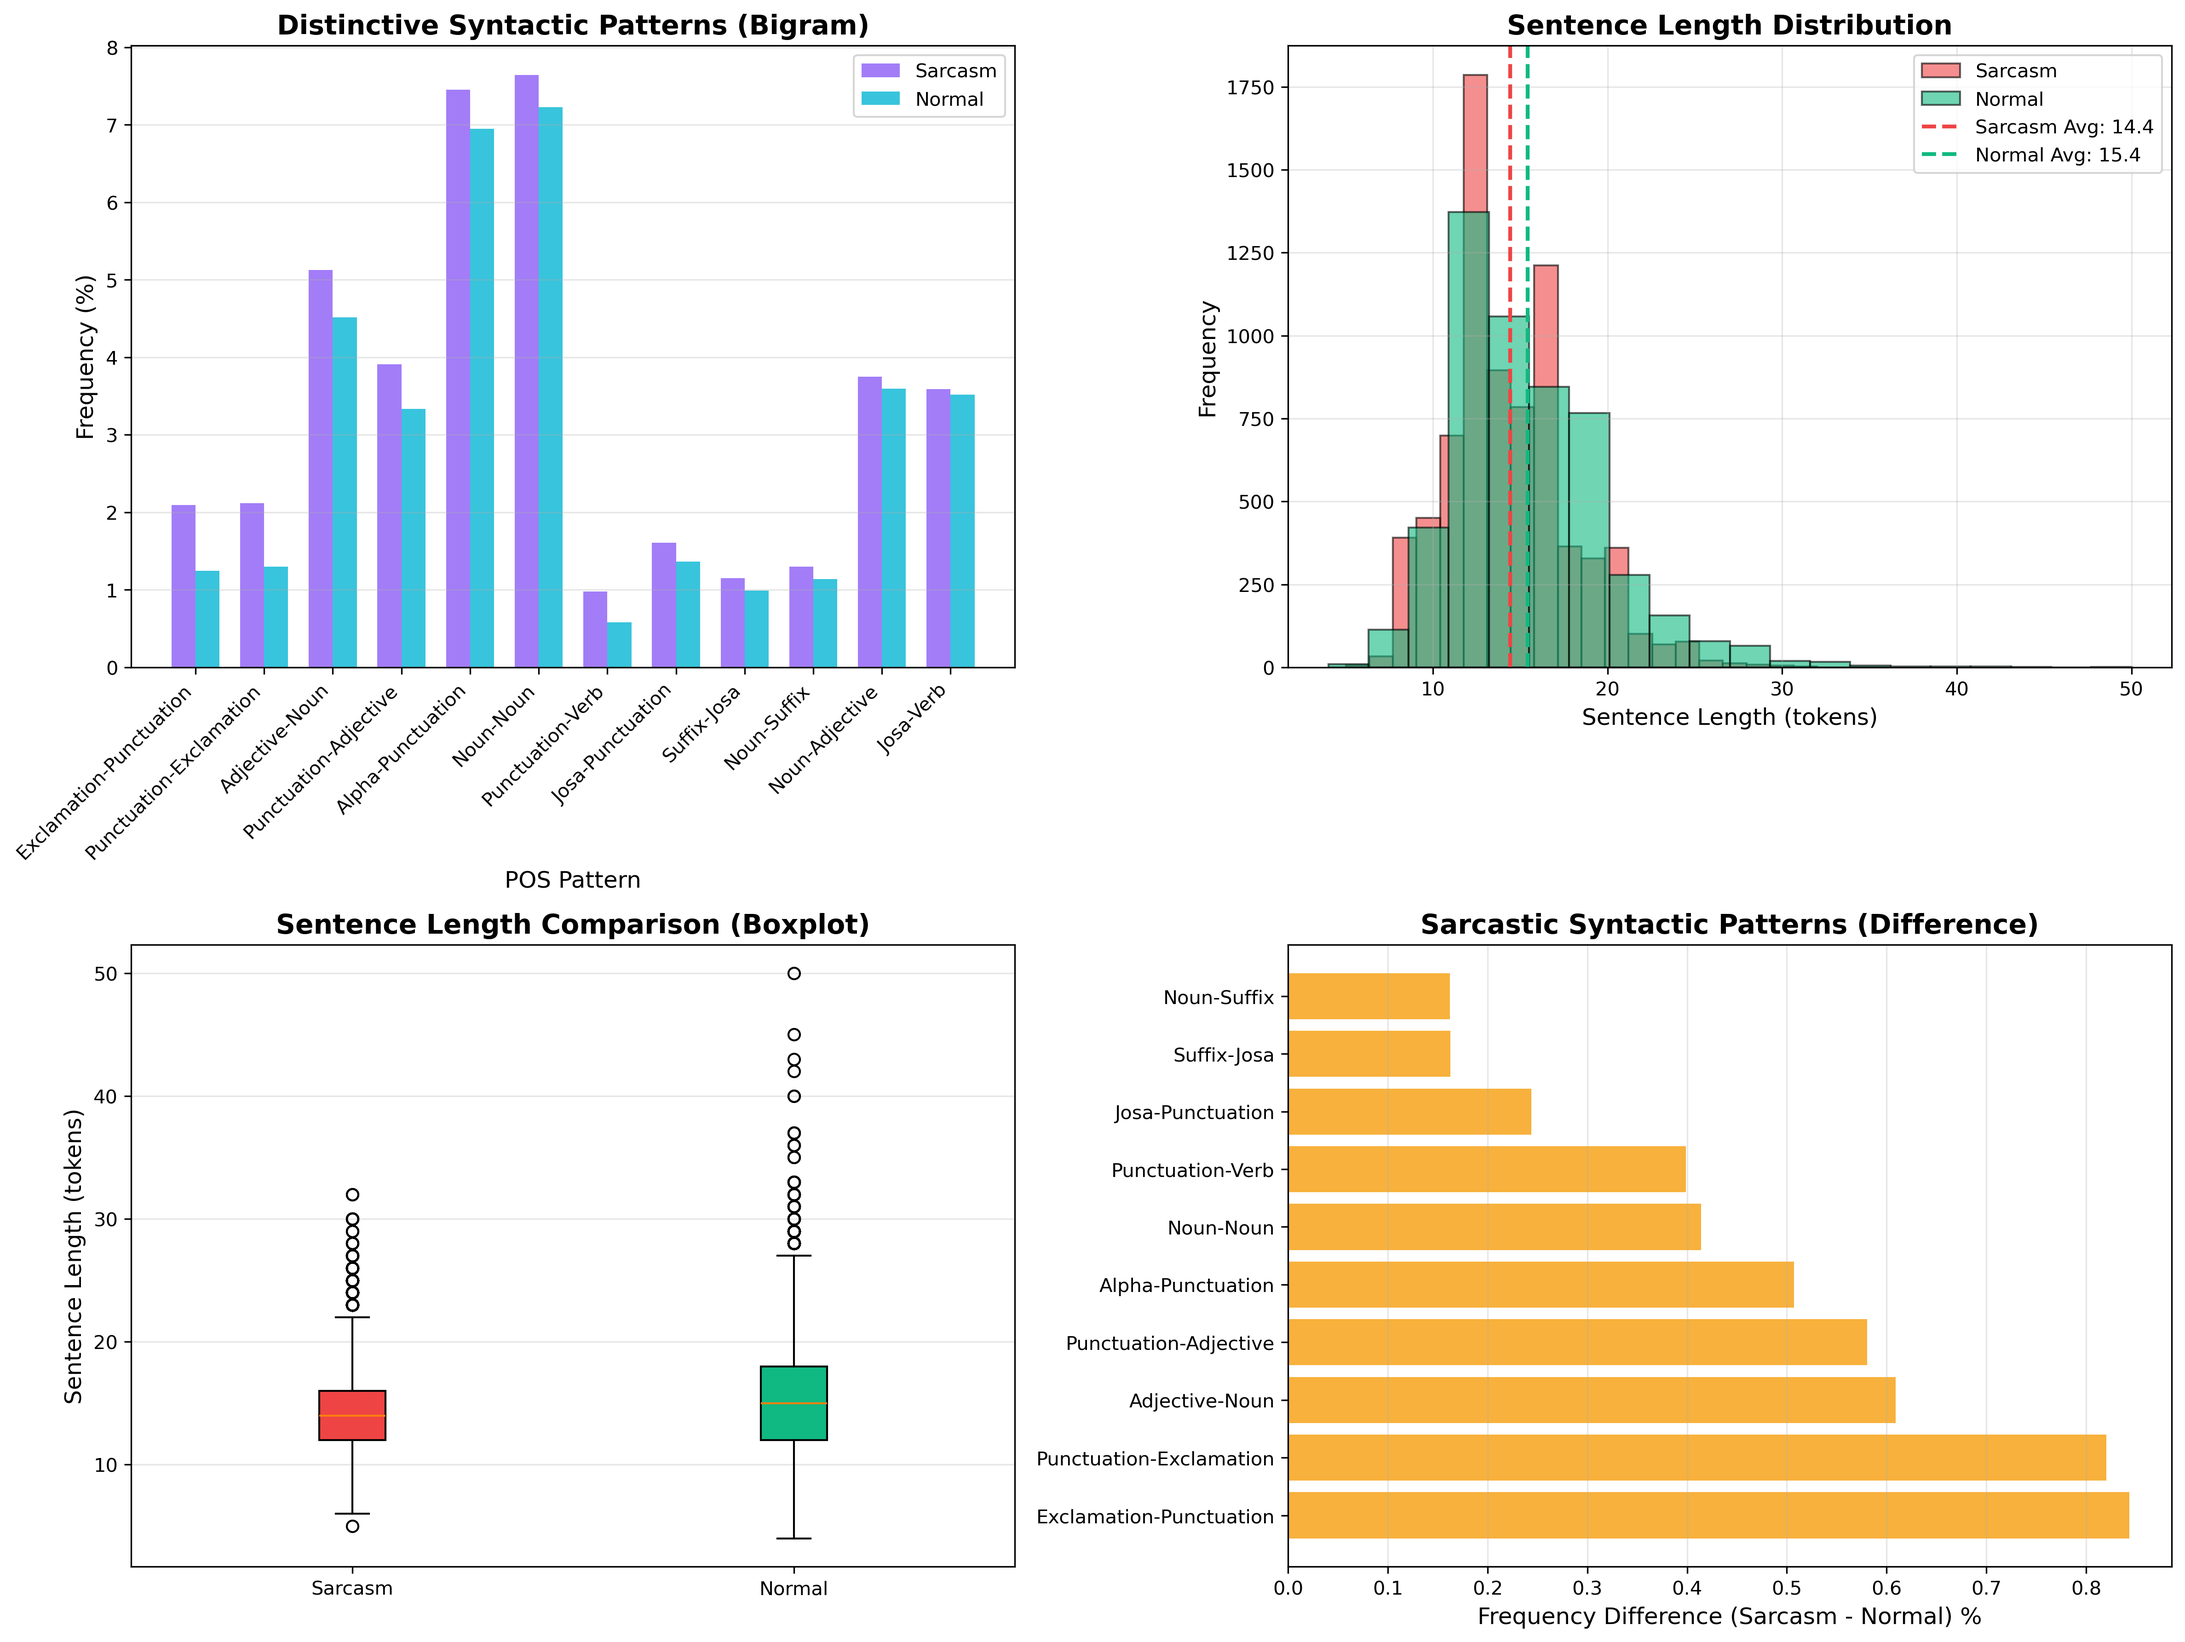
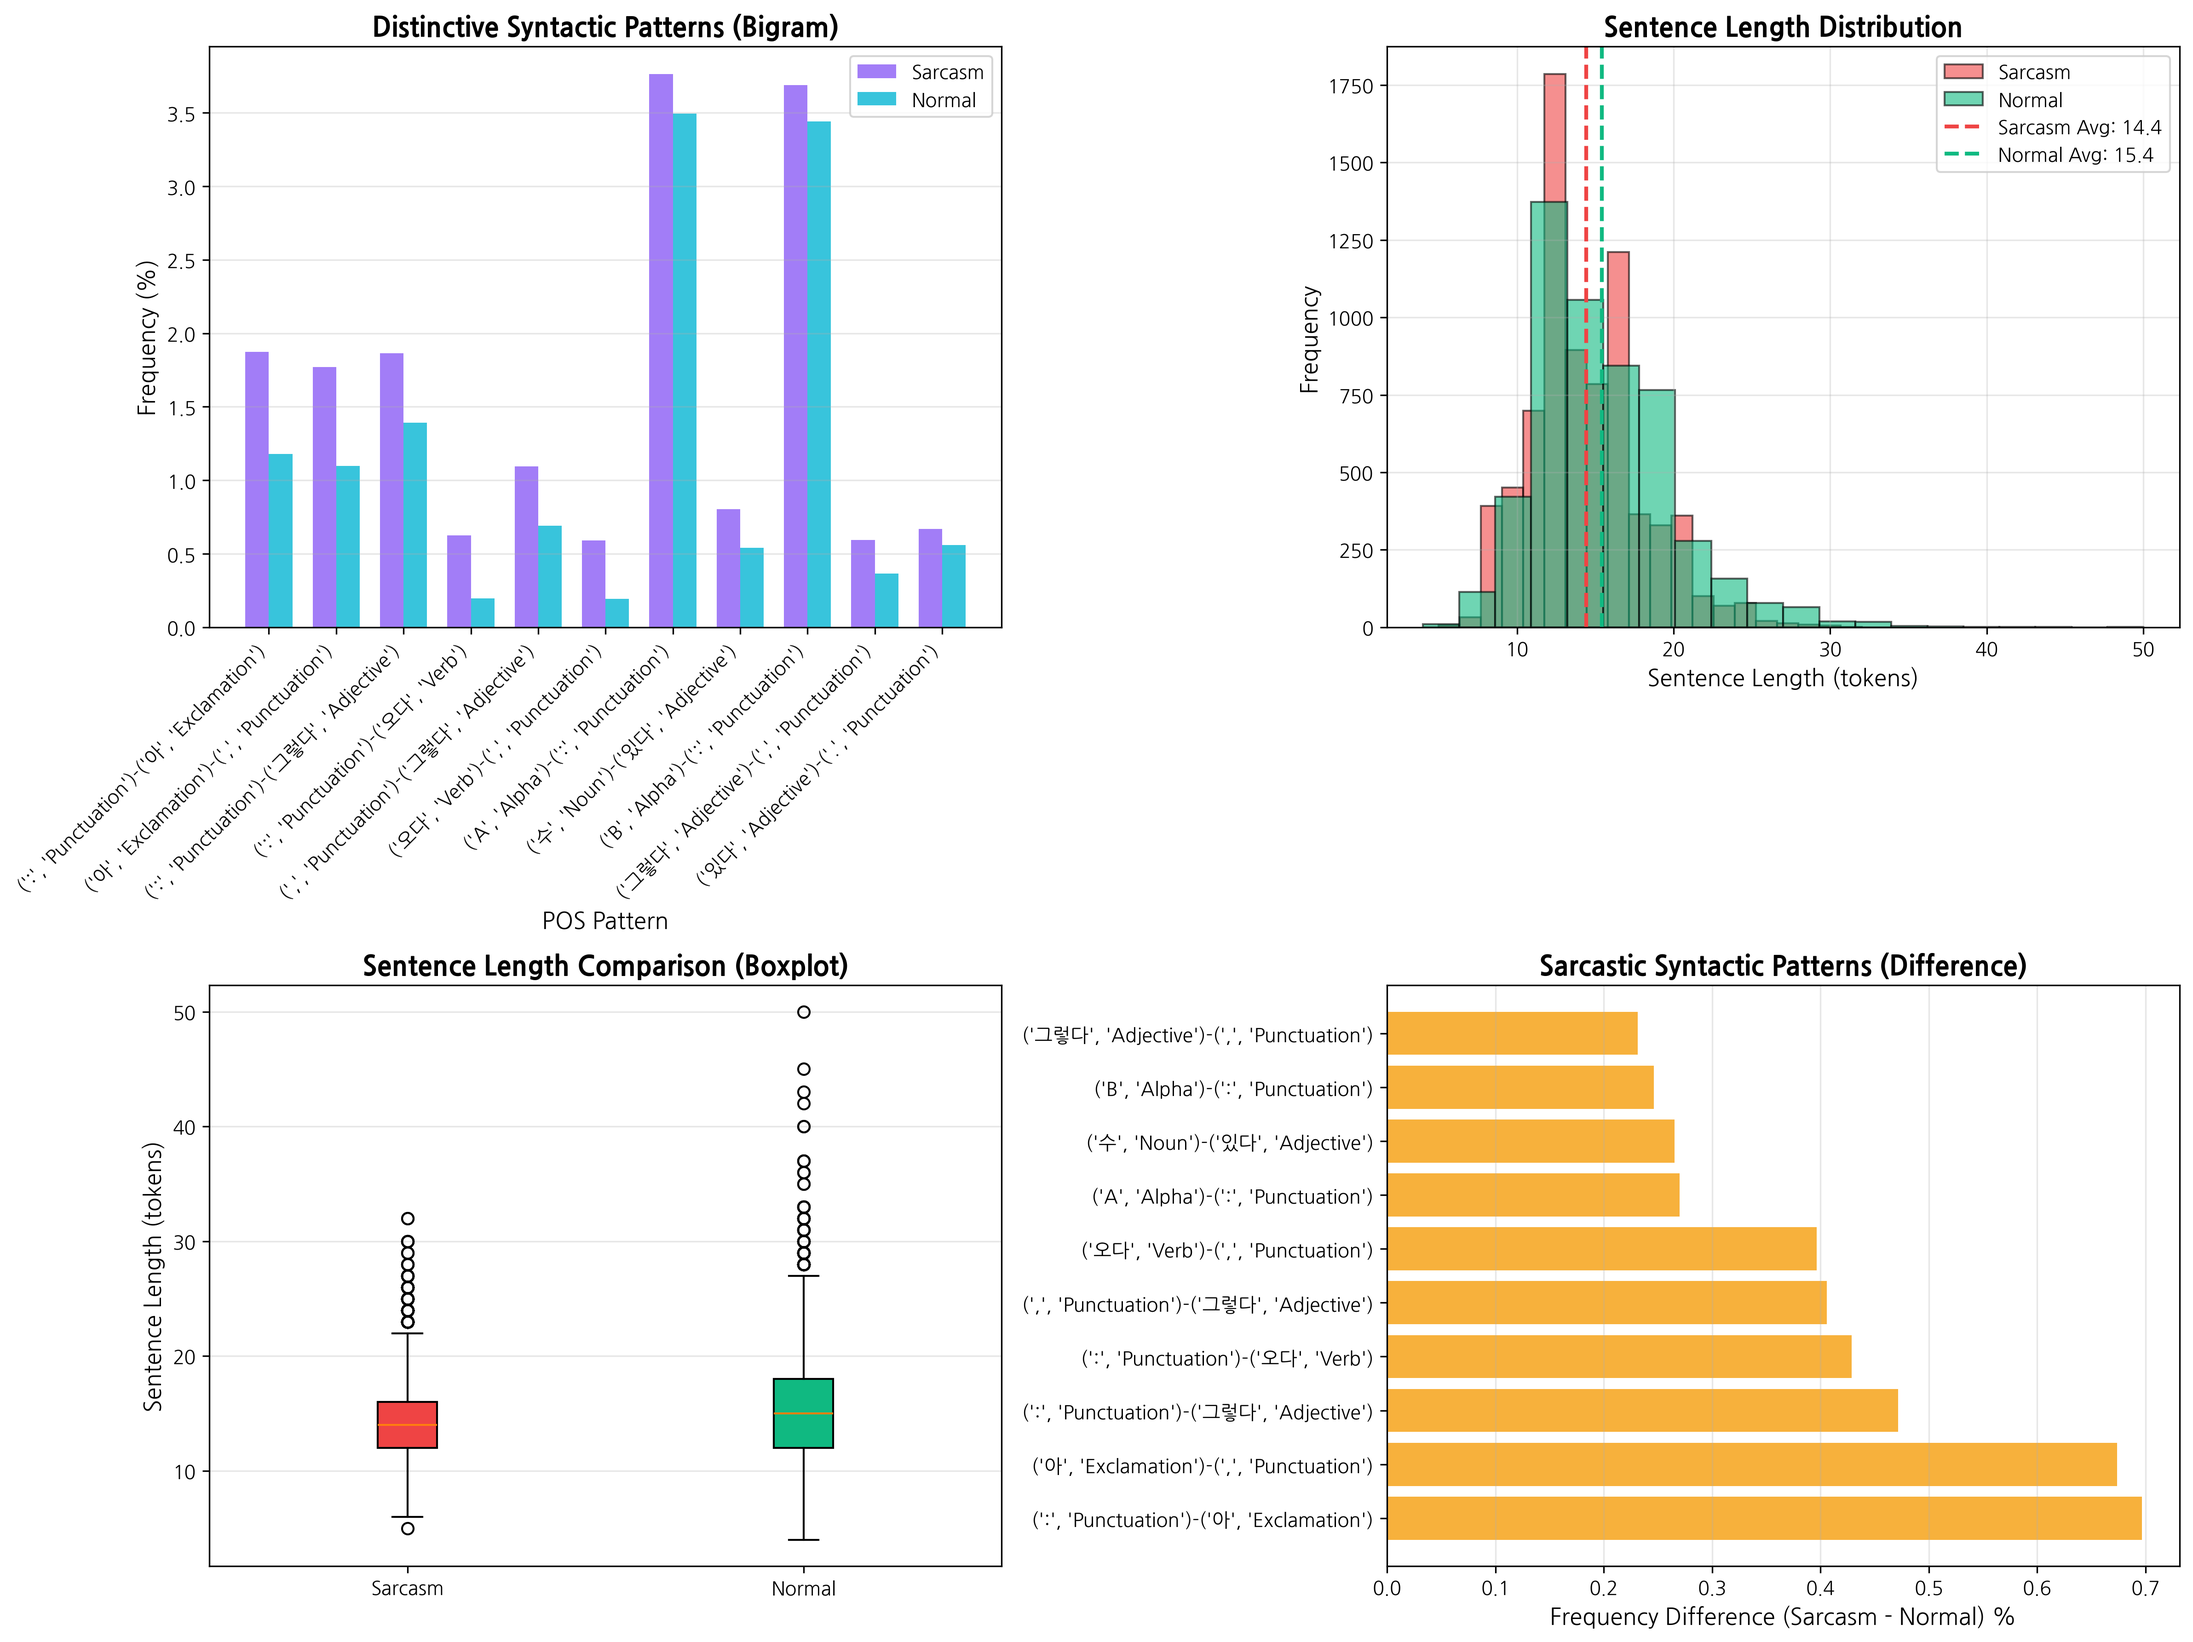
add

diff --git a/src/model/get_model.py b/src/model/get_model.py
@@ -1,6 +1,8 @@
 from transformers import AutoModelForSequenceClassification
 from transformers import AutoModelForCausalLM, AutoConfig
+from transformers import AutoTokenizer
 import torch.nn as nn
+import torch
 
 
 def get_model(args):
@@ -46,6 +48,146 @@ def get_model(args):
         # classifier만 학습
         for param in model.classifier.parameters():
             param.requires_grad = True
+        
+    elif args.model == 'gpt_prompt':
+        
+        class GPTPromptModel(nn.Module):
+            def __init__(self, model_name):
+                super().__init__()
+                self.model = AutoModelForCausalLM.from_pretrained(model_name)
+                self.tokenizer = AutoTokenizer.from_pretrained(model_name)
+                
+                # GPT 생성 모델은 Padding을 왼쪽에 붙여야 생성이 꼬이지 않습니다.
+                self.tokenizer.padding_side = 'left'
+
+                # pad_token 설정
+                if self.tokenizer.pad_token is None:
+                    self.tokenizer.pad_token = self.tokenizer.eos_token
+                    self.model.config.pad_token_id = self.model.config.eos_token_id
+                
+                # 전체 모델 Freeze (메모리 절약)
+                for param in self.model.parameters():
+                    param.requires_grad = False
+
+                self.system_prompt = """Task Description: You are really good at detecting the sarcastic response at the last utterance of the given dialog.
+                Sarcasm is the use of ironic or mocking language in which someone says the opposite of what they really mean, often to criticize, ridicule, or express contempt in a humorous or cutting way.
+If the last utterance is sarcastic, print "1". If not sarcastic, print "0" 
+
+Example 1:
+Context: "A: 요리는 잘 되가?
+B: 응 지금까지는 순항 중이야. 하나만 빼고.
+A: 뭐가 문제야? 잘 안 되는 게 있어?
+B: 계란 후라이가 조금 탔어."
+Response: "A: 이거 정말 바삭바삭하겠는걸."
+Detection Result: 1
+
+Example 2:
+"context":"A: 최근에 본 영화 중에 추천할 만한 것이 있나요?
+B: 저는 "터미네이터"를 보았는데, 상당히 재미있었습니다.
+A: 그렇군요. 저도 그 영화를 볼까 생각 중이었습니다. 어떤 부분이 가장 인상적이었나요?
+B: 아마도 그것은 결말 부분일 것입니다. 전형적인 할리우드 영화의 결말처럼 상당히 화려하고 긴장감 넘치는 장면이었습니다."
+"response":"A: 아, 그럼 정말로 마지막 장면은 놀라울 정도로 감동적이었겠군요."
+Detection Result: 0
+
+Example 2: 
+Context: "A: 퇴근하고 뭐 하는 거 있어요?
+B: 아니 퇴근하면 힘들잖아. 그냥 집에 가서 쉬어야지.
+A: 저는 얼마 전에 영어학원 등록했어요.
+B: 아 진짜? 영어공부 하려고?? 저번 달에는 중국어 공부할거라며?"
+Response: "A: 중국어는 너무 어렵더라고요. 그래서 큰 돈 주고 영어학원 다시 등록했어요."
+Detection Result: 0
+
+Example 3:
+Context: "A: 어제 하루 종일 잠만 자느라 시험공부 하나도 못 했어."
+Response: "B: 정말 성실한 하루를 보냈구나. 잘하는 짓이다."
+Detection Result: 1 
+
+Example 4: 
+Context: "A: 왜 그렇게 화난 표정이야?
+B: 아, 또 그러지 말라니까. 이해가 안 돼?
+A: 뭐가 그렇게 힘들고 속상한 건데?
+B: 일이 너무 힘들고, 집안 사정도 복잡해. 무엇보다는 내 마음이 참 괴로워.
+A: 이제 잠깐 쉬어보면 어때? 좋은 일이 분명 있을거야."
+Response: "B: 어차피 내가 아무리 힘들어도 상황이 바뀌는 것은 없을 거야."
+Detection Result: 0 
+"""
+
+            def forward(self, input_ids, attention_mask=None, labels=None):
+                # 현재 device 확인 (input_ids의 device 사용)
+                device = input_ids.device
+                
+                # 디버깅: 모델 device 확인
+                model_device = next(self.model.parameters()).device
+                if model_device != device:
+                    print(f"WARNING: Model is on {model_device}, but input is on {device}. Moving model to {device}")
+                    self.model = self.model.to(device)
+                
+                # 1. 입력 텍스트 디코딩
+                input_texts = self.tokenizer.batch_decode(input_ids, skip_special_tokens=True)
+                
+                prompts = []
+                for text in input_texts:
+                    # [SEP]로 context와 response 분리
+                    if '[SEP]' in text:
+                        parts = text.split('[SEP]')
+                        context = parts[0].strip()
+                        response = parts[1].strip() if len(parts) > 1 else ""
+                    else:
+                        # [SEP]가 없으면 전체를 context로 간주
+                        context = text.strip()
+                        response = ""
+                    
+                    user_prompt = f"""Context: "{context}"
+Response: "{response}"
+Detection Result:"""
+                    full_prompt = self.system_prompt + user_prompt
+                    prompts.append(full_prompt)
+
+                # 2. 프롬프트 토큰화 (Left Padding 적용됨)
+                # max_length를 지정하여 경고 메시지 방지 (필요시 1024 등으로 조절)
+                new_inputs = self.tokenizer(prompts, return_tensors="pt", padding=True, truncation=True, max_length=256).to(device)
+
+                # [수정 2] token_type_ids 제거 (GPT에서 사용 안 함)
+                if "token_type_ids" in new_inputs:
+                    del new_inputs["token_type_ids"]
+
+                # 3. 모델 Generate (추론)
+                with torch.no_grad():
+                    generated_ids = self.model.generate(
+                        **new_inputs,
+                        max_new_tokens=5, 
+                        pad_token_id=self.tokenizer.pad_token_id
+                    )
+                    
+                    # 4. 결과 텍스트 추출 및 logits 변환
+                    gen_results = []
+                    logits_list = []
+                    
+                    for i, sample_ids in enumerate(generated_ids):
+                        input_len = new_inputs['input_ids'][i].shape[0]
+                        output_text = self.tokenizer.decode(sample_ids[input_len:], skip_special_tokens=True)
+                        gen_results.append(output_text.strip())
+                        
+                        # 생성된 텍스트를 파싱하여 logits로 변환
+                        # "0" -> [1.0, 0.0], "1" -> [0.0, 1.0]
+                        if "1" in output_text:
+                            logits_list.append([0.0, 1.0])
+                        else:
+                            logits_list.append([1.0, 0.0])
+                
+                # logits를 텐서로 변환 (batch_size, num_labels)
+                # Few-shot이므로 gradient 필요 없음
+                logits = torch.tensor(logits_list, device=device, dtype=torch.float32)
+
+                # Loss 계산 (labels가 있는 경우 - 평가용)
+                loss = None
+                if labels is not None:
+                    loss_fn = nn.CrossEntropyLoss()
+                    loss = loss_fn(logits, labels)
+
+                return {"loss": loss, "logits": logits}
+
+        model = GPTPromptModel(args.model_name)
 
     return model
 

diff --git a/train.py b/train.py
@@ -59,11 +59,23 @@ def main(args):
     compute_metrics=compute_metrics,
 )
 
-    trainer.train()
-    
-    print("\n최종 테스트 결과 평가:")
-    metrics = trainer.evaluate(eval_dataset=test_dataset)
-    print(metrics)
+    # gpt_prompt 모델은 few-shot 프롬프트 기반이므로 학습하지 않고 평가만 수행
+    if args.model == 'gpt_prompt':
+        print("\nFew-shot 프롬프트 모델 - 학습 없이 평가만 수행")
+        print("\nValidation 결과:")
+        val_metrics = trainer.evaluate(eval_dataset=val_dataset)
+        print(val_metrics)
+        
+        print("\nTest 결과:")
+        test_metrics = trainer.evaluate(eval_dataset=test_dataset)
+        print(test_metrics)
+    else:
+        # 다른 모델들은 정상적으로 학습
+        trainer.train()
+        
+        print("\n최종 테스트 결과 평가:")
+        metrics = trainer.evaluate(eval_dataset=test_dataset)
+        print(metrics)
 
 if __name__=="__main__":
     args = get_arguments()   

diff --git a/src/analyzers/utils.py b/src/analyzers/utils.py
@@ -36,16 +36,17 @@ def get_morphs(text: str) -> List[str]:
         raise ImportError("Okt tagger is not available. Please install konlpy.")
     return okt.morphs(text, stem=True)
 
-def get_pos(text: str) -> List[str]:
+def get_pos(text: str) -> List[Tuple[str, str]]:
     """
-    주어진 텍스트에서 품사만 추출합니다.
+    주어진 텍스트에서 (형태소, 품사) 정보를 추출합니다.
     
     Args:
         text: 분석할 텍스트
         
     Returns:
-        품사 문자열의 리스트
+        (형태소, 품사) 튜플의 리스트
     """
     if not okt:
         raise ImportError("Okt tagger is not available. Please install konlpy.")
-    return [tag for _, tag in okt.pos(text, stem=True)]
+    # 동일한 형태의 출력이 필요하므로 pos_tag와 동일한 형식을 반환
+    return okt.pos(text, stem=True)

diff --git a/configs/train_arguements.py b/configs/train_arguements.py
@@ -27,7 +27,7 @@ def get_arguments():
     parser.add_argument("--eval_steps", type=int, default=200, help="Number of steps between evaluations")
     parser.add_argument("--per_device_train_batch_size", type=int, default=8, help="Batch size per device for training")
     parser.add_argument("--per_device_eval_batch_size", type=int, default=8, help="Batch size per device for evaluation")
-    parser.add_argument("--num_train_epochs", type=int, default=3, help="Number of epochs to train the model")
+    parser.add_argument("--num_train_epochs", type=int, default=1, help="Number of epochs to train the model")
     parser.add_argument("--warmup_steps", type=int, default=500, help="Number of warmup steps for the optimizer")
     parser.add_argument("--weight_decay", type=float, default=0.01, help="Weight decay for the optimizer")
 

diff --git a/bash/analysis/analysis.py b/bash/analysis/analysis.py
@@ -90,7 +90,7 @@ def main():
     print("1⃣  Running Morphological Analysis")
     print("-"*70)
     morphology_analyzer = MorphologyAnalyzer()
-    morphology_analyzer.analyze(morphs_list, labels)
+    morphology_analyzer.analyze(pos_tags_list, labels)
     morphology_analyzer.visualize()
 
     # Syntactic Analysis

diff --git a/src/data/get_dataset.py b/src/data/get_dataset.py
@@ -25,7 +25,7 @@ def load_kocosa(path):
 
 def get_dataset(args):
     tokenizer = AutoTokenizer.from_pretrained(args.model_name)
-
+    
     train_df = load_kocosa(args.train_df)
     val_df = load_kocosa(args.val_df)
     test_df = load_kocosa(args.test_df)

diff --git a/src/analyzers/modules.py b/src/analyzers/modules.py
@@ -7,6 +7,7 @@ from typing import List, Dict, Tuple
 import warnings
 import re
 import platform
+import koreanize_matplotlib
 
 from .base import BaseAnalyzer
 
